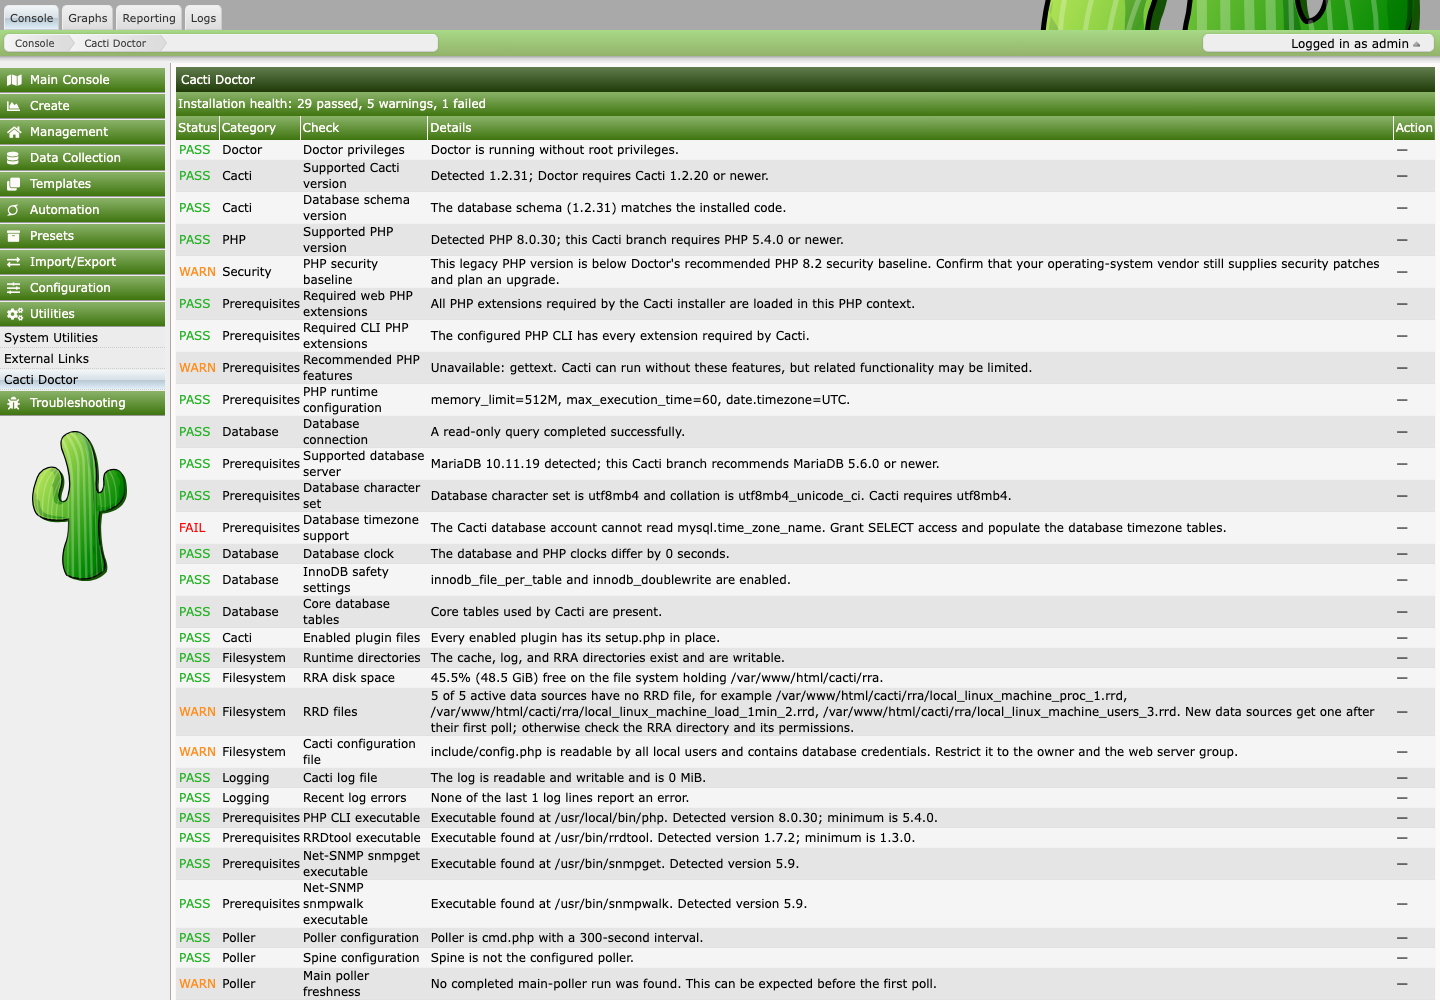
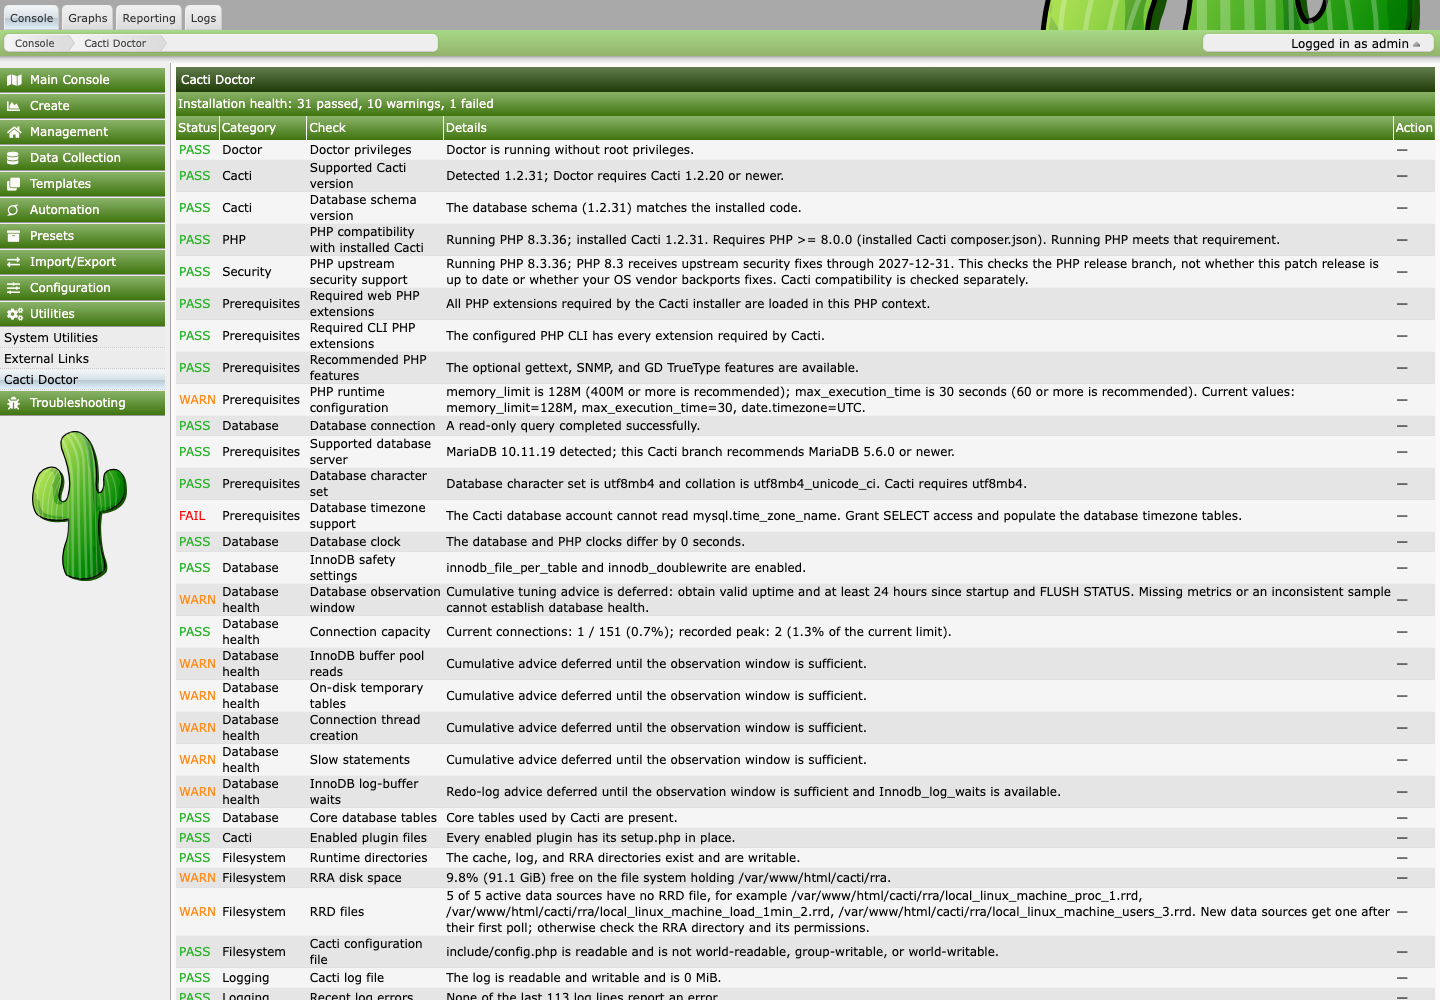
fix(doctor): clarify Cacti PHP compatibility and security support (#30)
* fix(doctor): distinguish Cacti PHP compatibility from security support

* fix(doctor): refresh screenshots and correct legacy PHP fallback

---------

Changed region(s): [[0.125, 0.093, 0.9688, 1.0], [0.125, 0.248, 0.1562, 0.279]]

diff --git a/doctor_functions.php b/doctor_functions.php
@@ -235,8 +235,50 @@ function doctor_is_cacti_13($cactiVersion = null) {
 	return $cactiVersion !== '' && version_compare($cactiVersion, '1.3.0', '>=');
 }
 
-function doctor_php_minimum_version($cactiVersion = null) {
-	return doctor_is_cacti_13($cactiVersion) ? '8.3.0' : '5.4.0';
+/**
+ * Read the installed Cacti package, not Doctor's own PHP compatibility floor.
+ * Only the constraint forms used by supported Cacti packages are interpreted.
+ */
+function doctor_php_requirement($base = null, $cactiVersion = null) {
+	$base = $base === null ? doctor_base_path() : $base;
+	$cactiVersion = $cactiVersion === null ? (defined('CACTI_VERSION') ? (string) CACTI_VERSION : 'unknown') : $cactiVersion;
+	$requirement = ['cacti' => $cactiVersion, 'minimum' => '', 'maximum' => '', 'source' => ''];
+	$manifest = $base . '/composer.json';
+
+	if (file_exists($manifest) || is_link($manifest)) {
+		$contents = is_file($manifest) ? @file_get_contents($manifest, false, null, 0, 1048577) : false;
+		$data = is_string($contents) && strlen($contents) <= 1048576 ? json_decode($contents, true) : null;
+		if (!is_array($data) || !isset($data['require']) || !is_array($data['require']) || !isset($data['require']['php']) || !is_string($data['require']['php'])) {
+			return $requirement;
+		}
+		$constraint = trim($data['require']['php']);
+		if (!preg_match('/\A(>=|\^)\s*([1-9][0-9]?)\.([0-9]{1,2})(?:\.([0-9]{1,4}))?\z/', $constraint, $match)) {
+			return $requirement;
+		}
+		$requirement['minimum'] = $match[2] . '.' . $match[3] . '.' . (isset($match[4]) ? $match[4] : '0');
+		$requirement['maximum'] = $match[1] === '^' ? ((int) $match[2] + 1) . '.0.0' : '';
+		$requirement['source'] = 'installed Cacti composer.json';
+	} elseif (preg_match('/\A1\.2\.(2[0-9]|30)\z/', $cactiVersion)) {
+		// These legacy releases have no root Composer PHP requirement; their installer uses 5.4.
+		$requirement['minimum'] = '5.4.0';
+		$requirement['source'] = 'Cacti ' . $cactiVersion . ' installer requirement';
+	}
+
+	return $requirement;
+}
+
+function doctor_evaluate_php_compatibility($phpVersion, $requirement) {
+	$summary = 'PHP compatibility with installed Cacti';
+	$detail = 'Running PHP ' . $phpVersion . '; installed Cacti ' . $requirement['cacti'] . '. ';
+	if ($requirement['minimum'] === '') {
+		return doctor_result('php.version', 'PHP', 'warn', $summary, $detail . 'Could not establish Cacti\'s PHP requirement. Check the installed Cacti composer.json or release documentation; Doctor does not assume compatibility.');
+	}
+	$compatible = version_compare($phpVersion, $requirement['minimum'], '>=')
+		&& ($requirement['maximum'] === '' || version_compare($phpVersion, $requirement['maximum'], '<'));
+	$range = 'PHP >= ' . $requirement['minimum'] . ($requirement['maximum'] !== '' ? ' and < ' . $requirement['maximum'] : '');
+	$detail .= 'Requires ' . $range . ' (' . $requirement['source'] . '). Running PHP ' . ($compatible ? 'meets' : 'does not meet') . ' that requirement.';
+
+	return doctor_result('php.version', 'PHP', $compatible ? 'pass' : 'fail', $summary, $detail);
 }
 
 // Cacti only warns below these, from the version row in utilities_get_mysql_recommendations().
@@ -278,19 +320,34 @@ function doctor_check_cacti_version() {
 }
 
 /** @return array<string,mixed> */
-function doctor_check_php_version() {
-	$minimum = doctor_php_minimum_version();
-	$status  = version_compare(PHP_VERSION, $minimum, '>=') ? 'pass' : 'fail';
-
-	return doctor_result('php.version', 'PHP', $status, 'Supported PHP version', 'Detected PHP ' . PHP_VERSION . '; this Cacti branch requires PHP ' . $minimum . ' or newer.');
+function doctor_check_php_version($phpVersion = null, $base = null, $cactiVersion = null) {
+	return doctor_evaluate_php_compatibility($phpVersion === null ? PHP_VERSION : $phpVersion, doctor_php_requirement($base, $cactiVersion));
 }
 
-function doctor_check_php_security_baseline() {
-	if (version_compare(PHP_VERSION, '8.2.0', '<')) {
-		return doctor_result('php.security_baseline', 'Security', 'warn', 'PHP security baseline', 'This legacy PHP version is below Doctor\'s recommended PHP 8.2 security baseline. Confirm that your operating-system vendor still supplies security patches and plan an upgrade.');
+function doctor_check_php_security_baseline($phpVersion = null, $today = null) {
+	$phpVersion = $phpVersion === null ? PHP_VERSION : $phpVersion;
+	$today = $today === null ? gmdate('Y-m-d') : $today;
+	$summary = 'PHP upstream security support';
+	$scope = ' This checks the PHP release branch, not whether this patch release is up to date or whether your OS vendor backports fixes. Cacti compatibility is checked separately.';
+	// php.net/supported-versions.php and php.net/eol.php, verified 2026-11-08.
+	$securityEnds = [
+		'5.4' => '2015-09-03', '5.5' => '2016-07-21', '5.6' => '2018-12-31',
+		'7.0' => '2019-01-10', '7.1' => '2019-12-01', '7.2' => '2020-11-30',
+		'7.3' => '2021-12-06', '7.4' => '2022-11-28', '8.0' => '2023-11-26',
+		'8.1' => '2025-12-31', '8.2' => '2026-12-31', '8.3' => '2027-12-31',
+		'8.4' => '2028-12-31', '8.5' => '2029-12-31'
+	];
+	if (!preg_match('/\A([0-9]+\.[0-9]+)\.[0-9]+(?:[-+].*)?\z/', $phpVersion, $match)
+		|| preg_match('/alpha|beta|rc|dev/i', $phpVersion) || !isset($securityEnds[$match[1]])) {
+		return doctor_result('php.security_baseline', 'Security', 'warn', $summary, 'Running PHP ' . $phpVersion . '; upstream security-support status is unknown or this is a prerelease. Check https://www.php.net/supported-versions.php and update Doctor\'s support data.' . $scope);
 	}
+	$end = $securityEnds[$match[1]];
+	$supported = $today <= $end;
+	$detail = 'Running PHP ' . $phpVersion . '; PHP ' . $match[1] . ($supported
+		? ' receives upstream security fixes through ' . $end . '.'
+		: ' no longer receives upstream security fixes; support ended ' . $end . '. Upgrade to a supported PHP branch compatible with your Cacti installation, or confirm security maintenance with your OS vendor.');
 
-	return doctor_result('php.security_baseline', 'Security', 'pass', 'PHP security baseline', 'PHP meets Doctor\'s recommended PHP 8.2 or newer security baseline.');
+	return doctor_result('php.security_baseline', 'Security', $supported ? 'pass' : 'warn', $summary, $detail . $scope);
 }
 
 /** @return array<string,mixed> */
@@ -733,11 +790,11 @@ function doctor_check_cacti_log() {
 /**
  * @return array<int,array<string,mixed>>
  */
-function doctor_check_required_binaries($privileged = null) {
+function doctor_check_required_binaries($privileged = null, $base = null, $cactiVersion = null) {
 	$privileged = $privileged === null ? doctor_running_as_root() : $privileged;
 	$snmp       = doctor_snmp_recommended_version();
 	$binaries = [
-		'path_php_binary' => ['label' => 'PHP CLI', 'argument' => '-v', 'pattern' => '/PHP\s+([0-9]+\.[0-9]+(?:\.[0-9]+)?)/i', 'minimum' => doctor_php_minimum_version()],
+		'path_php_binary' => ['label' => 'PHP CLI', 'argument' => '-v', 'pattern' => '/PHP\s+([0-9]+\.[0-9]+(?:\.[0-9]+)?(?:[A-Za-z][A-Za-z0-9]*|[-+][A-Za-z0-9.+-]+)?)/i', 'minimum' => ''],
 		'path_rrdtool'    => ['label' => 'RRDtool', 'argument' => '--version', 'pattern' => '/RRDtool\s+([0-9]+\.[0-9]+(?:\.[0-9]+)?)/i', 'minimum' => doctor_rrdtool_minimum_version()],
 		'path_snmpget'    => ['label' => 'Net-SNMP snmpget', 'argument' => '-V', 'pattern' => '/NET-SNMP version:\s*([0-9]+\.[0-9]+(?:\.[0-9]+)?)/i', 'minimum' => $snmp, 'below' => 'warn'],
 		'path_snmpwalk'   => ['label' => 'Net-SNMP snmpwalk', 'argument' => '-V', 'pattern' => '/NET-SNMP version:\s*([0-9]+\.[0-9]+(?:\.[0-9]+)?)/i', 'minimum' => $snmp, 'below' => 'warn']
@@ -764,6 +821,10 @@ function doctor_check_required_binaries($privileged = null) {
 			} elseif ($version === null) {
 				$status  = 'warn';
 				$detail .= ' Doctor could not determine its version.';
+			} elseif ($option === 'path_php_binary') {
+				$compatibility = doctor_evaluate_php_compatibility($version, doctor_php_requirement($base, $cactiVersion));
+				$status = $compatibility['status'];
+				$detail .= ' ' . $compatibility['detail'];
 			} elseif ($specification['minimum'] === '') {
 				$detail .= ' Detected version ' . $version . '.';
 			} elseif (version_compare($version, $specification['minimum'], '<')) {

diff --git a/tests/DoctorFunctionsTest.php b/tests/DoctorFunctionsTest.php
@@ -51,7 +51,7 @@ test('attribute escaping works without a Cacti helper', function () {
 });
 
 test('legacy Cacti defaults to its historical PHP floor', function () {
-	expect(doctor_php_minimum_version())->toBe('5.4.0');
+	expect(doctor_check_php_version('5.4.45', doctor_test_directory(), '1.2.30')['status'])->toBe('pass');
 });
 
 test('parent paths are resolved without the PHP 7 dirname levels argument', function () {
@@ -117,8 +117,11 @@ test('running as root is reported because writability results describe root', fu
 });
 
 test('Cacti 1.3 requires the PHP release its composer.json declares', function () {
-	expect(doctor_php_minimum_version('1.3.0'))->toBe('8.3.0')
-		->and(doctor_php_minimum_version('1.2.30'))->toBe('5.4.0');
+	$base = doctor_test_directory();
+	file_put_contents($base . '/composer.json', '{"require":{"php":"^8.3"}}');
+	expect(doctor_check_php_version('8.2.30', $base, '1.3.0-dev')['status'])->toBe('fail')
+		->and(doctor_check_php_version('8.3.0', $base, '1.3.0-dev')['status'])->toBe('pass')
+		->and(doctor_check_php_version('9.0.0', $base, '1.3.0-dev')['status'])->toBe('fail');
 });
 
 test('the RRDtool floor follows the oldest release each Cacti branch supports', function () {
@@ -1115,4 +1118,72 @@ test('the settings tab renders through Cacti translation formatting', function (
 	expect($tabs)->toHaveKey('doctor')
 		->and($settings['doctor'])->toHaveKey('doctor_log_warn_mb')
 		->and($settings['doctor']['doctor_poller_warn_percent']['default'])->toBe('80');
+});
+
+
+test('PHP compatibility follows the installed Cacti manifest on the 1.2 branch', function () {
+	$base = doctor_test_directory();
+	file_put_contents($base . '/composer.json', '{"require":{"php":">=8.2"},"config":{"platform":{"php":"5.4"}}}');
+	$result = doctor_check_php_version('8.1.34', $base, '1.2.32');
+	expect($result['id'])->toBe('php.version')
+		->and($result['summary'])->toBe('PHP compatibility with installed Cacti')
+		->and($result['status'])->toBe('fail')
+		->and($result['detail'])->toContain('installed Cacti 1.2.32', 'PHP >= 8.2.0', 'installed Cacti composer.json')
+		->and(doctor_check_php_version('8.2.0', $base, '1.2.32')['status'])->toBe('pass');
+});
+
+test('unavailable or unrecognized Cacti PHP requirements warn rather than assuming compatibility', function ($manifest) {
+	$base = doctor_test_directory();
+	file_put_contents($base . '/composer.json', $manifest);
+	$result = doctor_check_php_version('8.4.25', $base, '1.2.31');
+	expect($result['status'])->toBe('warn')
+		->and($result['detail'])->toContain('Could not establish');
+})->with(['invalid json', '{}', '{"require":[]}', '{"require":{"php":[]}}', '{"require":{"php":"^8.2 || ^8.3"}}']);
+
+test('a missing manifest only uses documented legacy Cacti requirements', function () {
+	$base = doctor_test_directory();
+	expect(doctor_check_php_version('5.3.29', $base, '1.2.20')['status'])->toBe('fail')
+		->and(doctor_check_php_version('5.4.0', $base, '1.2.20')['status'])->toBe('pass')
+		->and(doctor_check_php_version('8.4.25', $base, '1.2.31')['status'])->toBe('warn')
+		->and(doctor_check_php_version('8.4.25', $base, '1.2.32')['status'])->toBe('warn')
+		->and(doctor_check_php_version('8.4.25', $base, 'unknown')['status'])->toBe('warn')
+		->and(doctor_check_php_version('8.4.25', $base, '1.3.0-dev')['status'])->toBe('warn');
+});
+
+test('PHP CLI uses the same Cacti requirement as the current runtime', function () {
+	$base = doctor_test_directory();
+	file_put_contents($base . '/composer.json', '{"require":{"php":">=8.2"}}');
+	$GLOBALS['doctor_test_settings'] = ['path_php_binary' => doctor_test_executable($base, 'php', 'echo "PHP 8.1.34 (cli)"')];
+	$result = doctor_check_required_binaries(false, $base, '1.2.32')[0];
+	expect($result['id'])->toBe('binary.php_binary')
+		->and($result['status'])->toBe('fail')
+		->and($result['detail'])->toContain('PHP >= 8.2.0', 'installed Cacti 1.2.32');
+});
+
+test('PHP security support explains branch lifetime and does not certify patch freshness', function () {
+	$result = doctor_check_php_security_baseline('8.4.0', '2026-11-08');
+	expect($result['id'])->toBe('php.security_baseline')
+		->and($result['summary'])->toBe('PHP upstream security support')
+		->and($result['status'])->toBe('pass')
+		->and($result['detail'])->toContain('through 2028-12-31', 'not whether this patch release is up to date', 'OS vendor backports', 'Cacti compatibility is checked separately');
+});
+
+test('PHP security support expires after the published final day', function () {
+	expect(doctor_check_php_security_baseline('8.2.30', '2026-12-31')['status'])->toBe('pass')
+		->and(doctor_check_php_security_baseline('8.2.30', '2027-01-01')['status'])->toBe('warn')
+		->and(doctor_check_php_security_baseline('8.1.34', '2026-11-08')['detail'])->toContain('support ended 2025-12-31');
+});
+
+test('unknown and prerelease PHP branches are not declared security supported', function ($version) {
+	expect(doctor_check_php_security_baseline($version, '2026-11-08')['status'])->toBe('warn');
+})->with(['8.6.0', '9.0.0', '8.5.0RC1', '8.5.0-dev', 'unknown']);
+
+
+test('PHP CLI preserves prerelease suffixes when checking Cacti compatibility', function () {
+	$base = doctor_test_directory();
+	file_put_contents($base . '/composer.json', '{"require":{"php":"^8.3"}}');
+	$GLOBALS['doctor_test_settings'] = ['path_php_binary' => doctor_test_executable($base, 'php', 'echo "PHP 8.3.0RC1 (cli)"')];
+	$result = doctor_check_required_binaries(false, $base, '1.3.0-dev')[0];
+	expect($result['status'])->toBe('fail')
+		->and($result['detail'])->toContain('8.3.0RC1');
 });

diff --git a/README.md b/README.md
@@ -19,7 +19,9 @@ Cacti Doctor is a Cacti plugin that diagnoses an installation in one pass and ap
 ## Screenshots
 
 Diagnostics and scheduling settings in an isolated Cacti 1.2.31 demonstration
-installation. Warnings and failures shown here describe that demo environment.
+installation running PHP 8.3.36, including the Cacti PHP compatibility, upstream
+security-support, and database-health checks. Warnings and failures shown here
+describe that demo environment.
 
 ![Doctor diagnostic table with pass, warning, and failure results](docs/screenshots/diagnostics.png)
 
@@ -32,7 +34,7 @@ Cacti problems usually surface as symptoms: empty graphs, a poller that stopped,
 | Area | Checks |
 |---|---|
 | Doctor | Whether Doctor itself runs as root, which would make permission checks describe the wrong account |
-| Cacti and PHP | Cacti version, an upgrade the installer never finished, enabled plugins whose files are missing, PHP version for the installed Cacti branch, PHP security baseline |
+| Cacti and PHP | Cacti version, an upgrade the installer never finished, enabled plugins whose files are missing, PHP compatibility with the installed Cacti package, PHP upstream security-support status |
 | PHP extensions | Required extensions in the web PHP and in the CLI PHP the poller uses, plus recommended features |
 | PHP configuration | `memory_limit`, `max_execution_time`, and `date.timezone`, using Cacti's own recommendations |
 | Database | Connectivity, server version against Cacti's recommendation, UTF-8 character set, timezone tables, core tables, clock drift from the PHP host, and the InnoDB settings Cacti flags as errors |
@@ -159,10 +161,15 @@ It does not change ownership, run shell commands, rewrite configuration, or modi
 | Cacti | PHP | Notes |
 |---|---|---|
 | 1.2.20 | 5.4 or newer | Doctor's own code is PHP 5.4 compatible so it can diagnose legacy systems before an upgrade |
+| 1.2.31 | 8.0 or newer | Cacti's `composer.json` requires `>=8.0` |
 | Current 1.2.x | 8.2 or newer | Cacti's `composer.json` requires `>=8.2` |
 | `develop` (1.3) | 8.3 or newer | Cacti's `composer.json` requires `^8.3` |
 
-PHP below 8.2 triggers a security-baseline warning. Compatibility with legacy PHP is meant for diagnosing old systems, not for keeping them in service.
+The **PHP compatibility with installed Cacti** row compares the running PHP version with the PHP requirement in Cacti's own root `composer.json`, including the upper bound of a caret constraint such as `^8.3`. The configured PHP CLI executable is checked against the same requirement. Doctor recognizes the `>=` and `^` constraint forms used by these Cacti packages. An unreadable, malformed, missing, or unrecognized requirement produces a warning; Cacti 1.2.20–1.2.30 installations without a manifest retain their documented PHP 5.4 installer floor. Doctor's own PHP 5.4 compatibility does not establish compatibility with a newer Cacti installation.
+
+The **PHP upstream security support** row answers a separate question: does that PHP release branch still receive security fixes from the PHP project? It reports the branch's published security-support end date and warns after that date. For example, PHP 8.1 can meet an older Cacti installation's runtime requirement while no longer receiving upstream security fixes. A passing result does not mean the installed patch release is current, and Doctor cannot determine whether an OS vendor supplies backported fixes.
+
+Support dates are bundled with Doctor from the [PHP support schedule](https://www.php.net/supported-versions.php) and [end-of-life list](https://www.php.net/eol.php), last checked on 2026-11-08. Unknown branches and prereleases produce a warning rather than an assumed pass. No network request is made during diagnostics. Update Doctor's support data when PHP publishes a new schedule. Existing JSON/monitoring IDs `php.version` and `php.security_baseline` are unchanged.
 
 ## Development
 

diff --git a/CHANGELOG.md b/CHANGELOG.md
@@ -2,6 +2,9 @@
 
 ## Unreleased
 
+- Refresh diagnostic and settings screenshots; warn when Cacti 1.2.31 is missing its required PHP manifest.
+- Check web/CLI PHP against the installed Cacti package requirement, and explain PHP upstream security support with branch end dates separately from compatibility.
+
 ## 0.5.1 - 2026-11-08
 
 - Add native MySQL/MariaDB health analysis and conditional tuning advice for connections, InnoDB reads and log waits, temporary tables, thread creation, and slow statements. Defer cumulative advice for short or invalid samples; never modify database settings.
